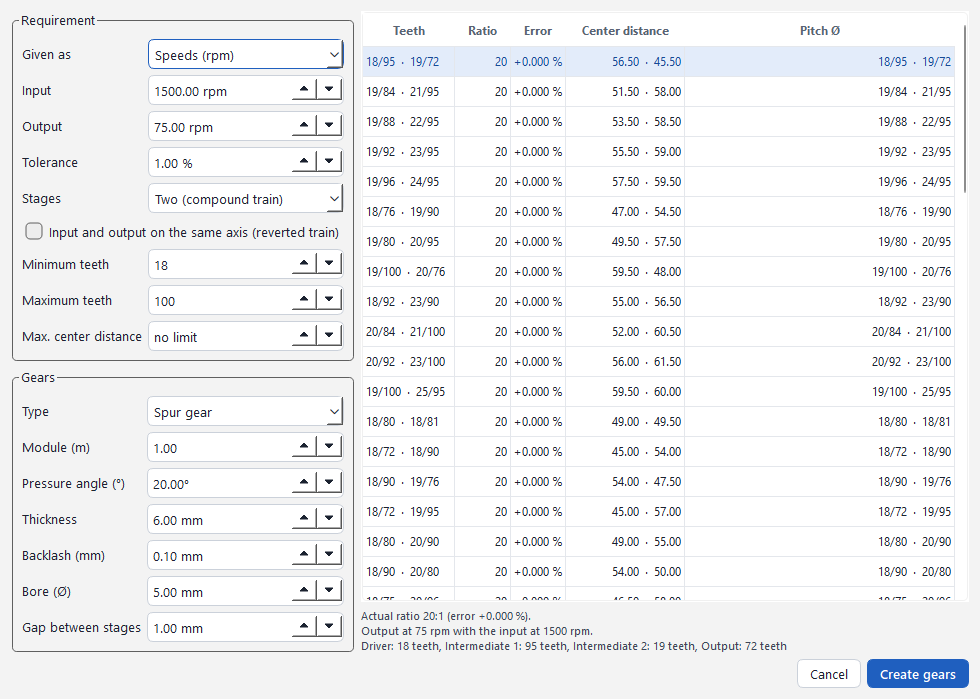
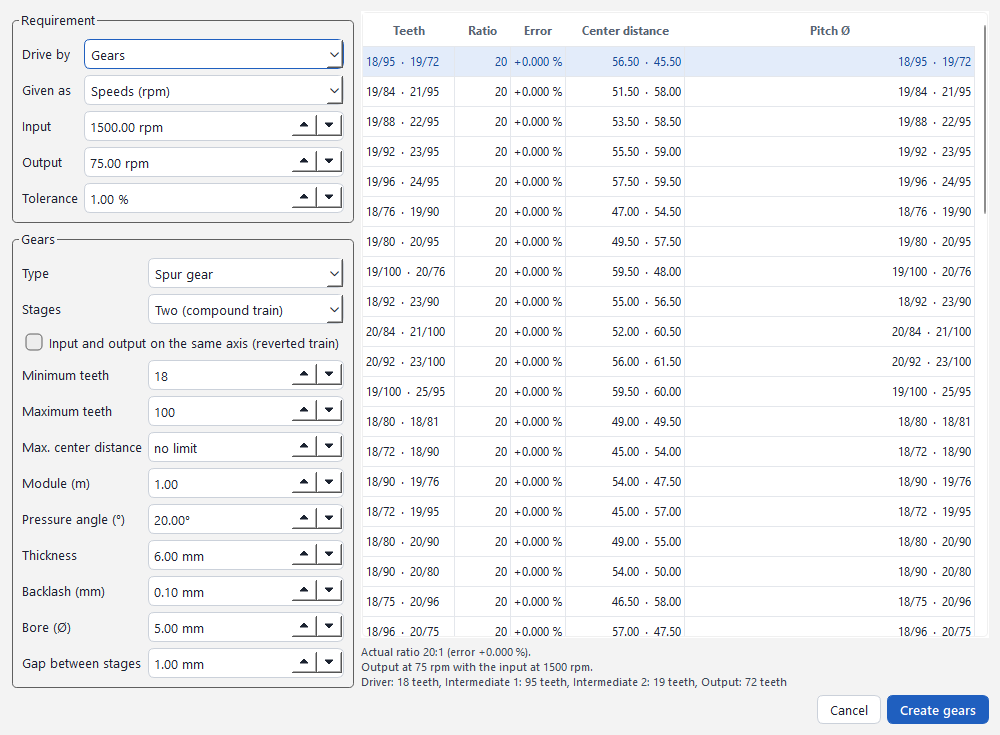
README: captura nueva de la calculadora y aviso sobre las longitudes de correa

diff --git a/README.md b/README.md
@@ -214,6 +214,8 @@ This produces `dist/OpenSCAD_GUI_Mejorada.exe` and a zip with the examples. Open
 - A mesh cannot hold a tolerance of hundredths of a millimetre. For fits, machine to the values the
   dialog lists, not to the exported STL.
 - The 3D-printing allowances are starting points, not standards. Print a test piece first.
+- Belt drives: pick the final belt from a maker's catalogue. The V-belt length the calculator gives is
+  the pitch (datum) length; some catalogues name belts by their inside or outside length instead.
 - Parts are modelled for fit-checking and drawings: no threads, flat roots instead of fillet radii,
   and no tolerance classes on gears. Flanges have no fillet radii, weld bevel or facing finish.
 - The flange tables are those of the editions listed above (ASME B16.5-2013 and EN 1092-1:2018).
